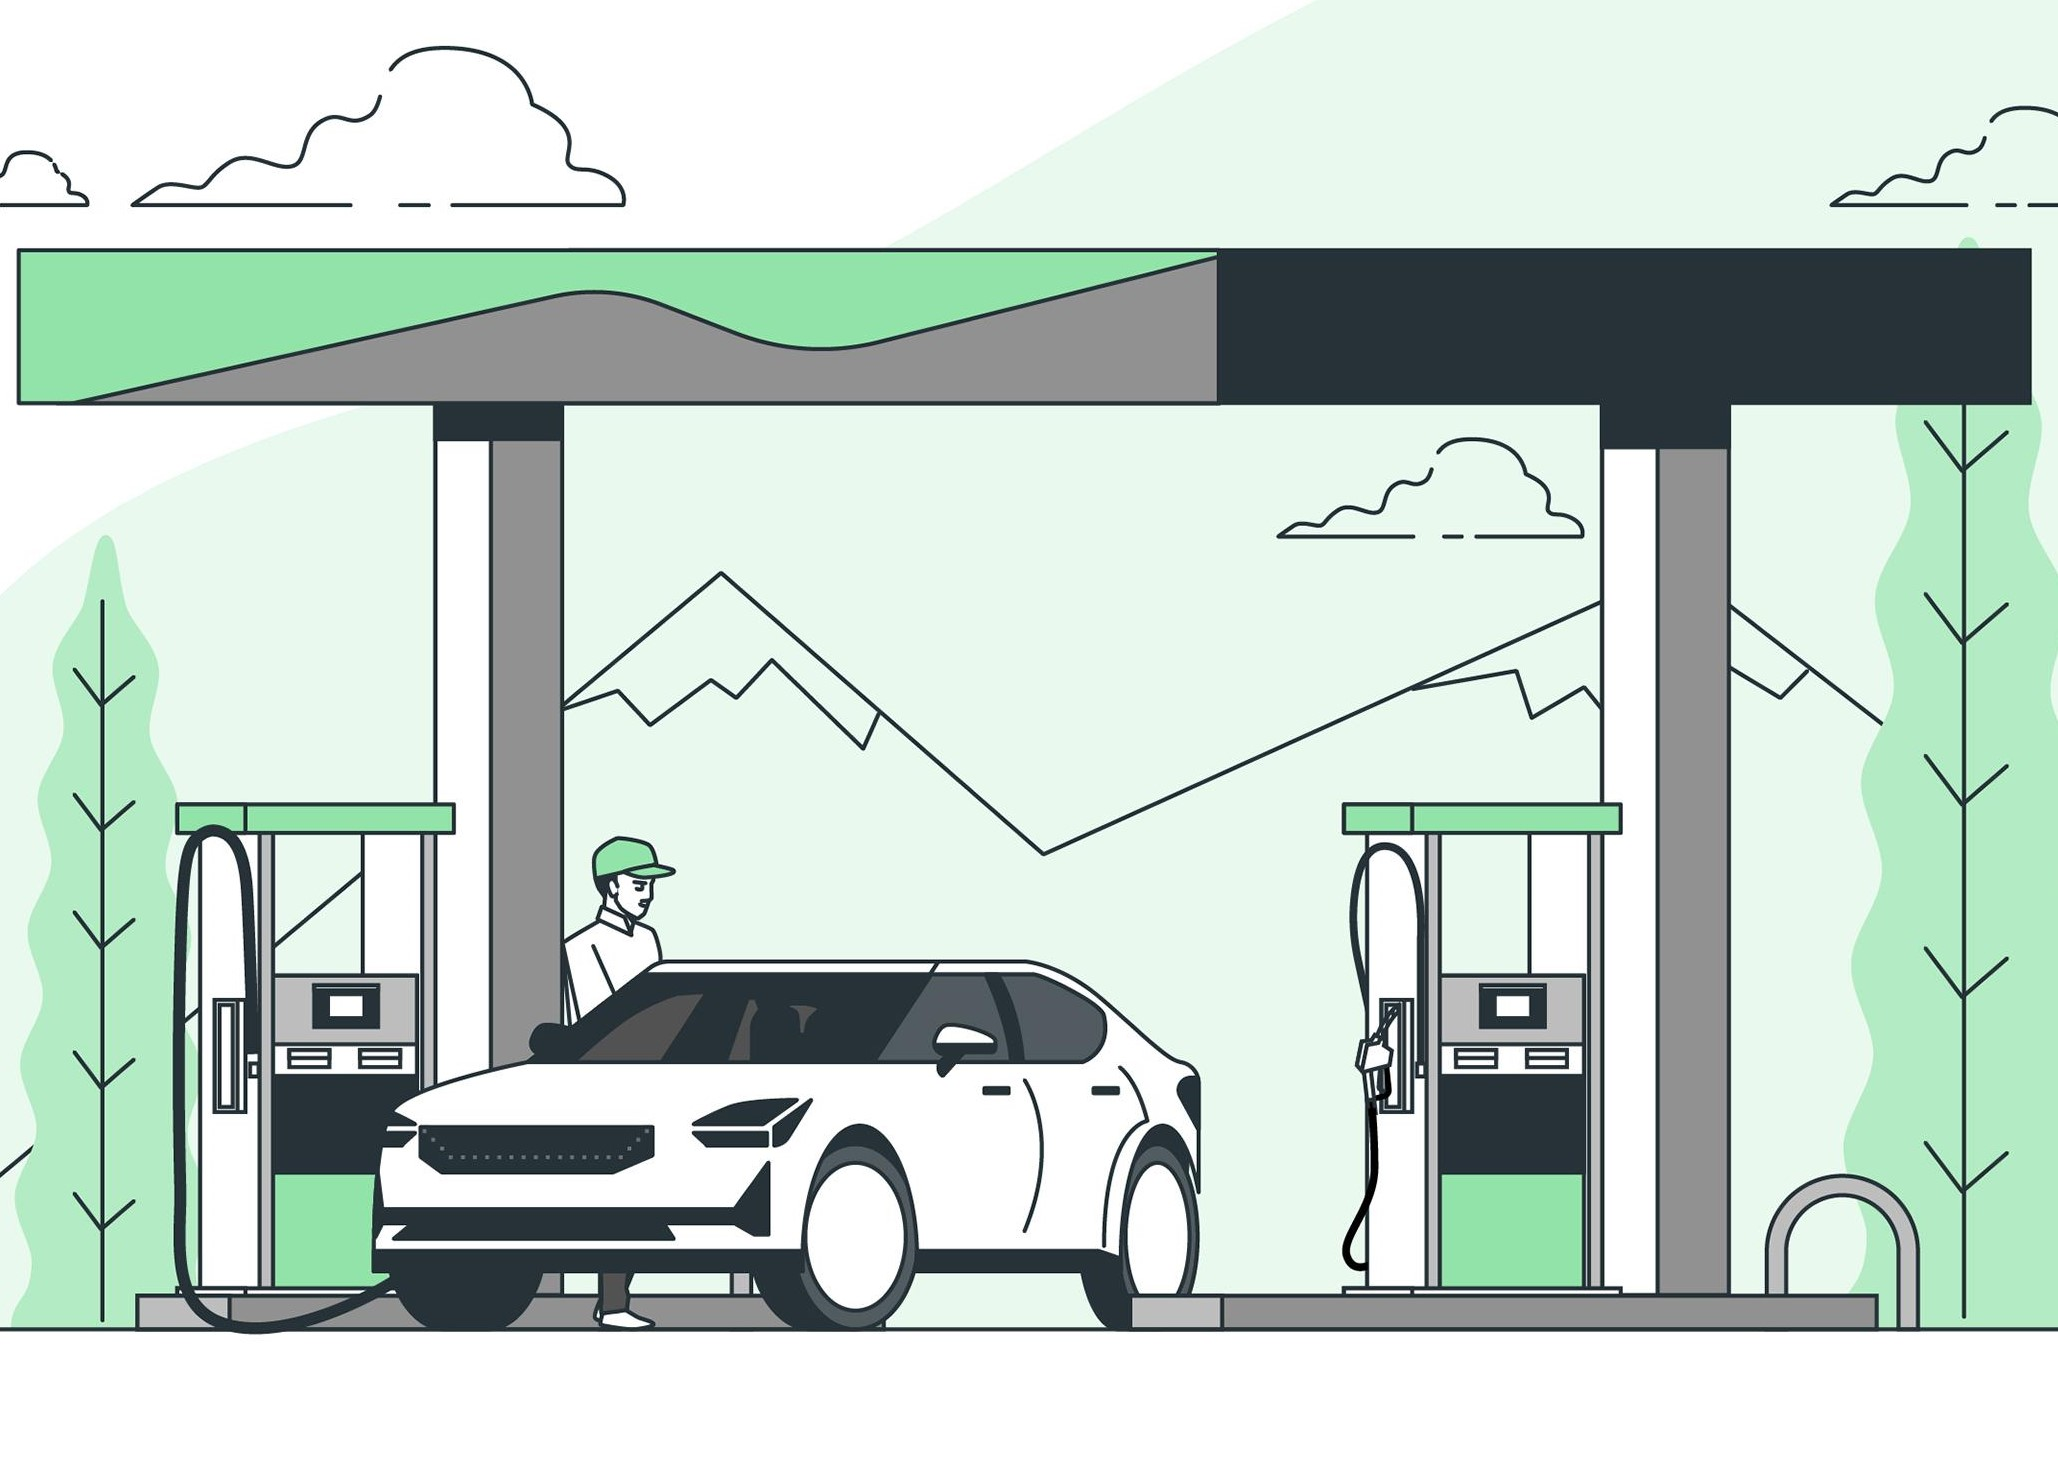
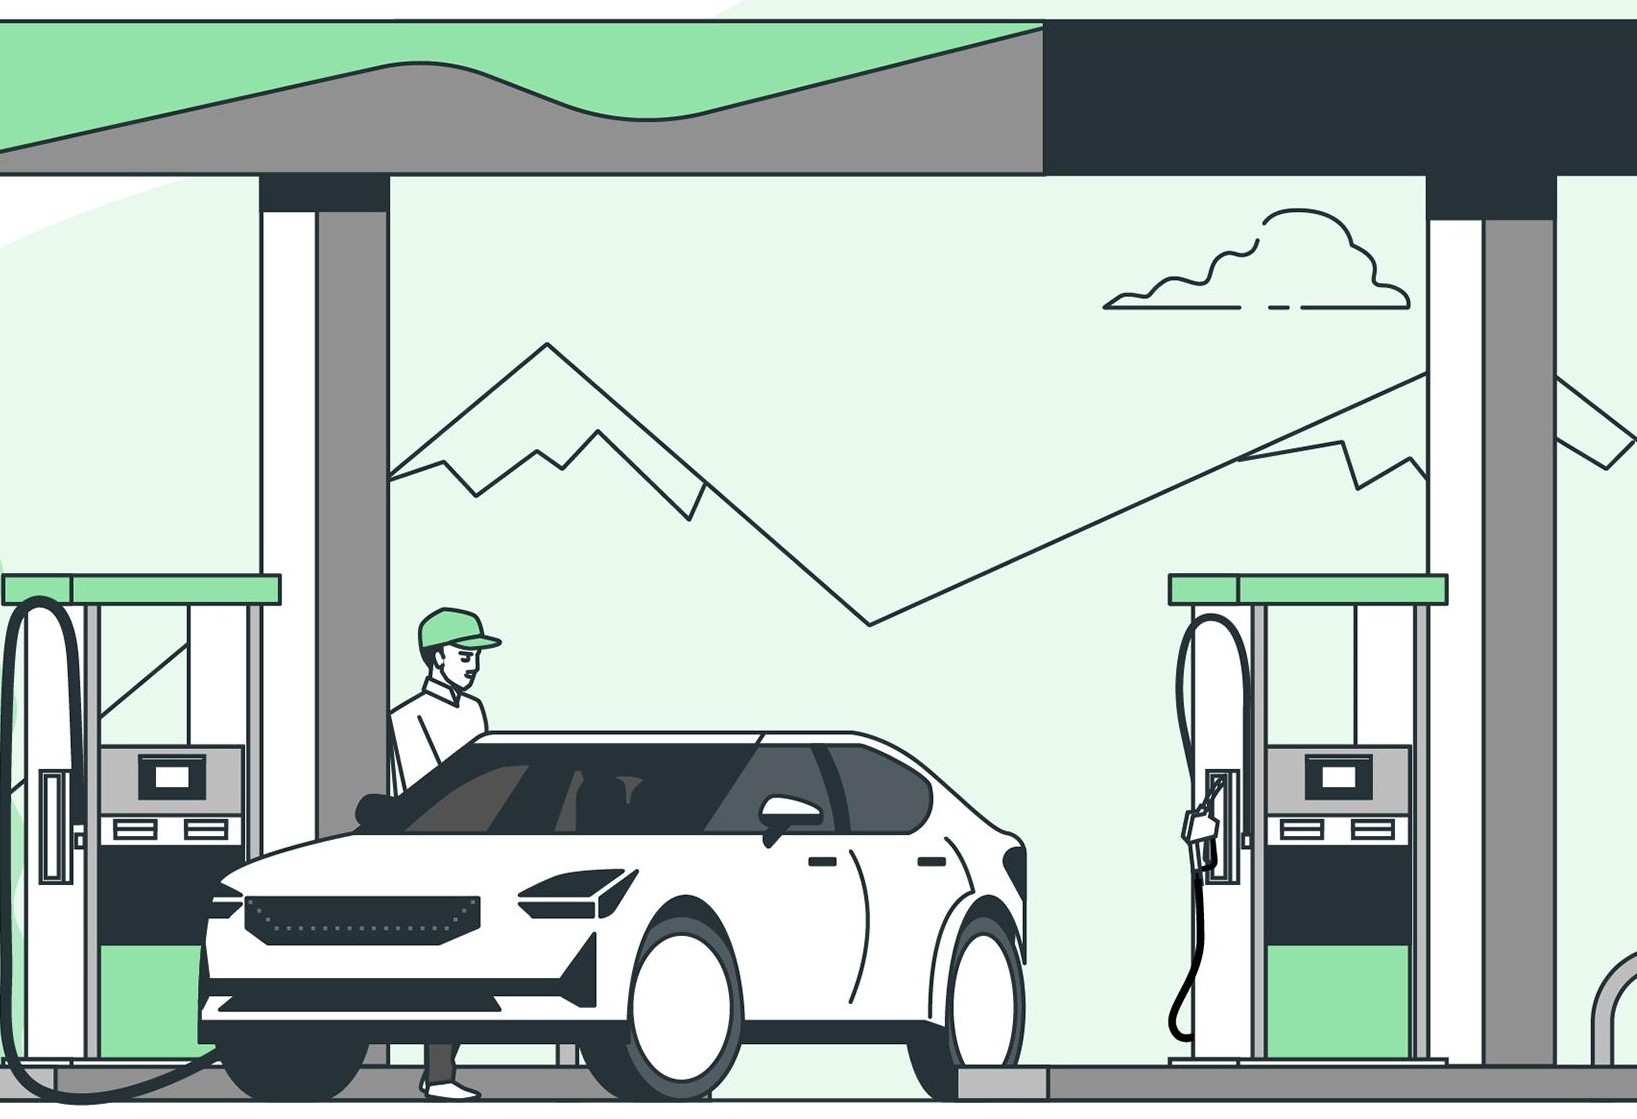
Adding some styles for mobile. Hero image is cropped smaller and h1 also

diff --git a/Styles.css b/Styles.css
@@ -857,6 +857,10 @@ footer p {
         height: 75vh;
     }
 
+    #hero-text h1 {
+        font-size: 2.1em;
+    }
+
     #hero-img {
         max-width: 275px;
         max-height: 200px;
